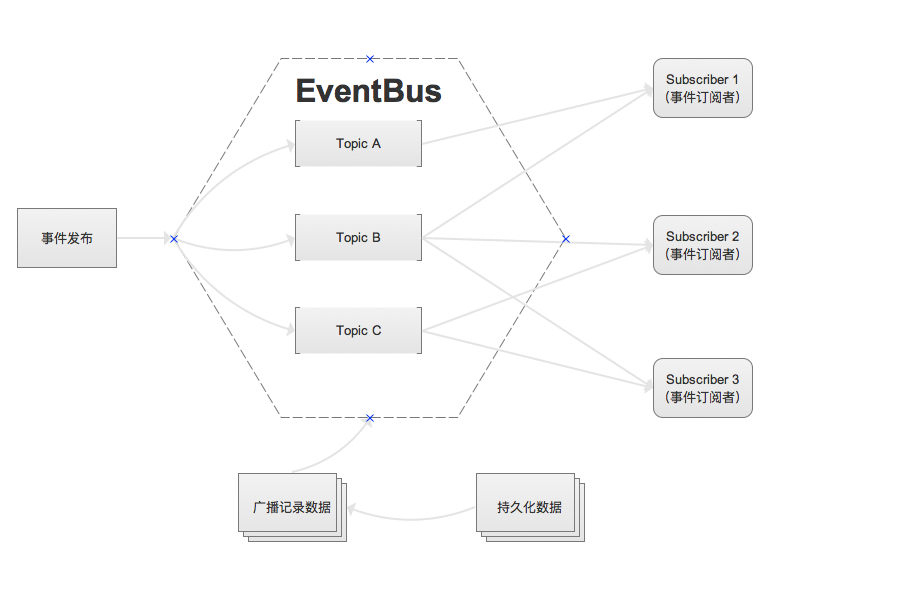
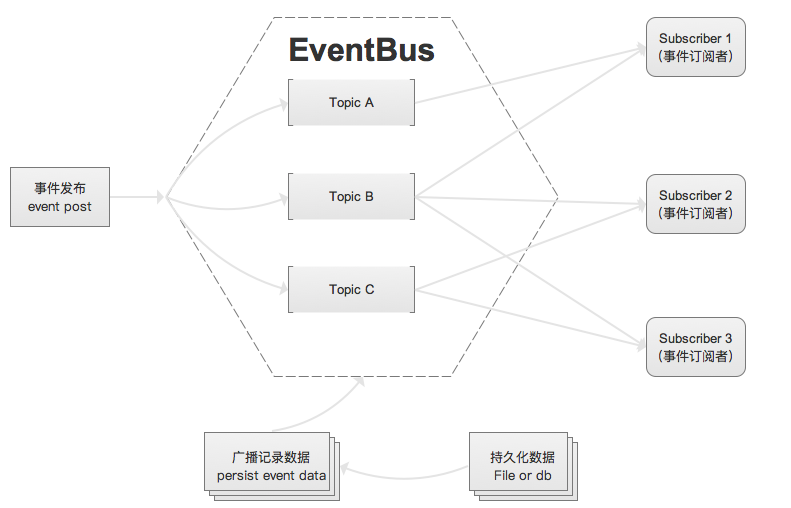
event bus english documents (#13)
* event bus module prd

* add git ignore

* format docs

* add internal function descriptions

* event bus docs improve

* update doc json format

* update doc json format

* Update e.跨链方案v1.3--事件总线模块设计.md

* translate into English

* 格式优化一下

* event jsonrpc call data

* picture with english descriptions

* rename event bus doc

diff --git a/design-en/e.Event Bus Design v1.3.md b/design-en/e.Event Bus Design v1.3.md
@@ -1,0 +1,265 @@
+# Event bus module design document
+
+[TOC]
+
+## 1. Overall description
+
+### 1.1 Module Overview
+
+#### 1.1.1 Why should I have the Event Bus module?
+
+> The Event Bus Module is a functional module designed to receive and notify processing module events, managing all module events.
+
+#### 1.1.2 What is the "Event Bus"?
+
+> Provide event subscription, receiving, sending and other functions, which is an event transfer station between modules
+
+#### 1.1.3 Positioning of Event Bus in the System
+
+> The event module is an edge system that provides some major asynchronous messaging, which means that even without an event bus, the system can operate normally, is lightweight, and does not depend on other module systems.
+
+### 1.2 Architecture
+![event-bus-module](image/eventbus/event-bus-module.png)
+
+- The event bus module mainly contains 2 parts of interactive logic:
+  - Microservice registration and service information acquisition with the system core module.
+  - Event message creation, subscription, and forwarding management with other base modules.
+
+## 2. functional design
+
+### 2.1 Functional Architecture
+![event-bus-content](image/eventbus/event-bus-content.png)
+
+### 2.2 Module Service
+![event-bus-model](image/eventbus/event-bus-model.png)
+
+> This module provides event subscriptions, event forwarding
+
+#### 2.2.1 Modifying system operating parameters
+
+> Only rely on the core system, the core system can start, stop, modify parameters, etc. of the event module system,
+
+### 2.3 Module internal function
+![event-bus-function](image/eventbus/event-bus-function.png)
+
+> Module internal work mainly includes, subscription manager, event manager, and forwarding manager.
+
+- Microservice interface information synchronization management
+  - for synchronizing the service interface with the kernel service management module
+- Event Storage Management (eventBus)
+  - Used to create event information, subscribe to other storage, and initialize the information when the module is restarted.
+- Event subscription management (subscribe)
+  - Maintain a "configuration table" for subscription events: including important parameters for all individual module subscriptions
+- Event forwarding management (dispatcher)
+  - The open interface is used for event reception, the receiving event is forwarded by subscription, and the forwarding call interface is obtained through the service information management interface.
+- Function Interface Management (rpc)
+  - Open query interface for external query
+### 2.4 Event Bus Process
+
+* Event processing timing
+
+![event-bus-seq-flow](image/eventbus/event-bus-seq-flow.png)
+
+- Event processing basic process
+
+![event-bus-main-flow](image/eventbus/event-bus-main-flow.png)
+
+### 2.5 Business Logic
+
+> Exception logic processing in case of event forwarding failure (such as network reason), according to the following two logics:
+
+- 1. Retaining event calls Repeat calls by queue until the forwarding is successful.
+- 2. Discard it directly after trying many times. (Tentatively 5 times) Retry every 10 seconds.
+
+## 3. Interface Design
+
+### 3.1 Module Interface
+#### 3.1.1 Event Theme Subscription
+> cmd: subscribe
+
+##### Parameter Description (Request body)
+
+```json
+{
+  "cmd": "subscribe",
+  "min_version": 1.0,
+  "params":[
+    "app.nuls.network.bandwidth",//topic event topic
+    "moduleId" //moduleId subscriber module id
+  ]
+}
+```
+##### Return value description (Response content)
+
+```json
+{
+  "version": 1.2,
+  "code": 0,
+  "msg": "reponse message.", // information on failure
+  "result": {
+    "app_secret": "xxxxxxxxxxxx" // app_secret, temporarily not needed, may need to be verified later if it is not required to be called locally
+  }
+}
+```
+
+#### 3.1.2 Event Unsubscribe
+> cmd: unsubscribe
+
+##### Parameter Description (request body)
+
+```json
+{
+  "cmd": "unsubscribe",
+  "min_version": 1.0,
+  "params":[
+    "app.nuls.network.bandwidth", //topic event topic
+    "moduleId" //moduleId subscriber module id
+  ]
+}
+```
+
+##### Return value description: (response content)
+
+```json
+{
+  "version": 1.2,
+  "code": 0,
+  "msg": "reponse message.", // information on failure
+  "result": {
+  }
+}
+```
+
+#### 3.1.3 Event Sending [Automatically Create Topic]
+> Do you keep a certain amount of time when no one is subscribed?
+
+> cmd: send
+
+##### Parameter description (request body)
+
+```json
+{
+ "cmd": "send",
+ "min_version": 1.0,
+ "params":[
+   "app.nuls.network.bandwidth",//topic event topic
+   "moduleId", //moduleId subscriber module id
+   {"key" : "data value"} // event to be sent, jsonObj
+ ]
+}
+```
+
+##### return value description (response content)
+
+```json
+{
+  "version": 1.2,
+  "code": 0,
+  "msg": "reponse message.", // information on failure
+  "result": {
+  }
+}
+```
+#### 3.1.4 Event broadcast (push push or dispatcher)
+> I need each interface to provide an interface when subscribing to events. I can call it when I broadcast. I am using multithreading to remove your interface. You need to return the correct code, otherwise there will be a retry mechanism.
+
+##### Parameter description (request body)
+
+```json
+{
+ "cmd": "dispatcher",
+ "min_version": 1.0,
+ "params":[
+   {} //data event to be sent, payload
+ ]
+}
+```
+
+##### return value description (response content)
+
+```json
+{
+  "version": 1.2,
+  "code": 0, // must return correctly, do not need to tell you whether the business logic is wrong, as long as you receive it, tell me that you have successfully received it.
+  "msg": "reponse message.", // information on failure
+  "result": {
+  }
+}
+```
+### 3.2 Function Interface
+> The functional interface is the interface provided to the interface and command line tools
+
+#### Get event topic information
+> cmd: topics
+
+##### Parameter description (request body)
+
+```json
+{
+ "cmd": "topics",
+ "min_version": 1.0,
+ "params":[]
+}
+```
+
+##### Response Body (response content)
+
+```json
+{
+  "version": 1.2,
+  "code": 0, // must return correctly, do not need to tell you whether the business logic is wrong, as long as you receive it, tell me that you have successfully received it.
+  "msg": "reponse message.", // information on failure
+  "result": {
+    "topics":[{
+        "topic": "", //topic id
+        "createTime":"", //Create time
+        "moduleId":"", // theme creator (module) Id
+        "subscribes":[//subscriber information
+            {
+                "moduleId":"", //subscriber
+                "subscribeTime":"" //Subscription time
+            }
+        ]}
+    ]
+  }
+}
+```
+
+#### Get event topic information (including all event information on this topic?) Every event I don't care about.
+> cmd : get_topic
+
+## 4. Description of the event
+
+> does not depend on any events
+
+## 5. agreement
+
+### 5.1 Network Communication Protocol
+
+no
+
+### 5.2 Trading Agreement
+
+## 6. Module Configuration
+### 6.1 Configuration Instructions
+> General support configuration, port, number of retries, retry time, thread pool size of default executor, network call timeout configuration, etc.
+```yml
+Server:
+  Ip: 127.0.0.1 // local ip, used to provide services to other modules, you can not fill, the default is automatically obtained
+  Port: 8080 //The port that provides the service, you can leave it blank, the default is automatically obtained.
+```
+### 6.2 Module Dependencies
+
+- Kernel module
+  - Module registration
+  - Module logout
+  - Module status escalation (heartbeat)
+  - Service interface data acquisition and timing update
+
+## 7. Java-specific design
+
+> Core object class definition, storing data structures, ...
+
+## 8. supplementary content
+
+> Required content not covered above

diff --git a/design-zh-CHS/e.事件总线模块设计v1.3.md b/design-zh-CHS/e.事件总线模块设计v1.3.md
@@ -81,8 +81,8 @@
 
 ```json
 {
-  "jsonrpc": "1.0",
-  "method": "subscribe",
+  "cmd": "subscribe",
+  "min_version": "1.0",
   "params":[
     "app.nuls.network.bandwidth",//topic 事件主题
     "moduleId" //moduleId订阅者模块id
@@ -93,7 +93,7 @@
 
 ```json
 {
-  "jsonrpc": "1.0",
+  "version": "1.0",
   "code": 0,//操作码
   "msg": "reponse message.",//失败时的信息
   "result": {
@@ -109,8 +109,8 @@
 
 ```json
 {
-"jsonrpc": "1.0",
-"method": "unsubscribe",
+"cmd": "unsubscribe",
+"min_version": "1.0",
 "params":[
   "app.nuls.network.bandwidth", //topic 事件主题
   "moduleId" //moduleId订阅者模块id
@@ -122,7 +122,7 @@
 
 ```json
 {
-  "jsonrpc": "1.0",
+  "version": "1.0",
   "code": 0, //操作码
   "msg": "reponse message.",//失败时的信息
   "result": {
@@ -139,8 +139,8 @@
 
 ```json
 {
- "jsonrpc": "1.0",
- "method": "send",
+ "cmd": "send",
+ "min_version": "1.0",
  "params":[
    "app.nuls.network.bandwidth",//topic 事件主题
    "moduleId", //moduleId订阅者模块id
@@ -153,7 +153,7 @@
 
 ```json
 {
-  "jsonrpc": "1.0",
+  "version": "1.0",
   "code": 0, //操作码
   "msg": "reponse message.",//失败时的信息
   "result": {
@@ -167,8 +167,8 @@
 
 ```json
 {
- "jsonrpc": "1.0",
- "method": "dispatcher",
+ "cmd": "dispatcher",
+ "min_version": "1.0",
  "params":[
    {} //data 需要发送的事件，payload
  ]
@@ -179,7 +179,7 @@
 
 ```json
 {
-  "jsonrpc": "1.0",
+  "version": "1.0",
   "code": 0, //一定要正确返回,不要需要告诉你业务逻辑是否出错，你只要接收到了就告诉我你成功接收到了即可。
   "msg": "reponse message.",//失败时的信息
   "result": {
@@ -196,8 +196,8 @@
 
 ```json
 {
- "jsonrpc": "1.0",
- "method": "topics",
+ "cmd": "topics",
+ "min_version": "1.0",
  "params":[]
 }
 ```
@@ -206,7 +206,7 @@
 
 ```json
 {
-  "jsonrpc": "1.0",
+  "version": "1.0",
   "code": 0, //一定要正确返回,不要需要告诉你业务逻辑是否出错，你只要接收到了就告诉我你成功接收到了即可。
   "msg": "reponse message.",//失败时的信息
   "result": {
